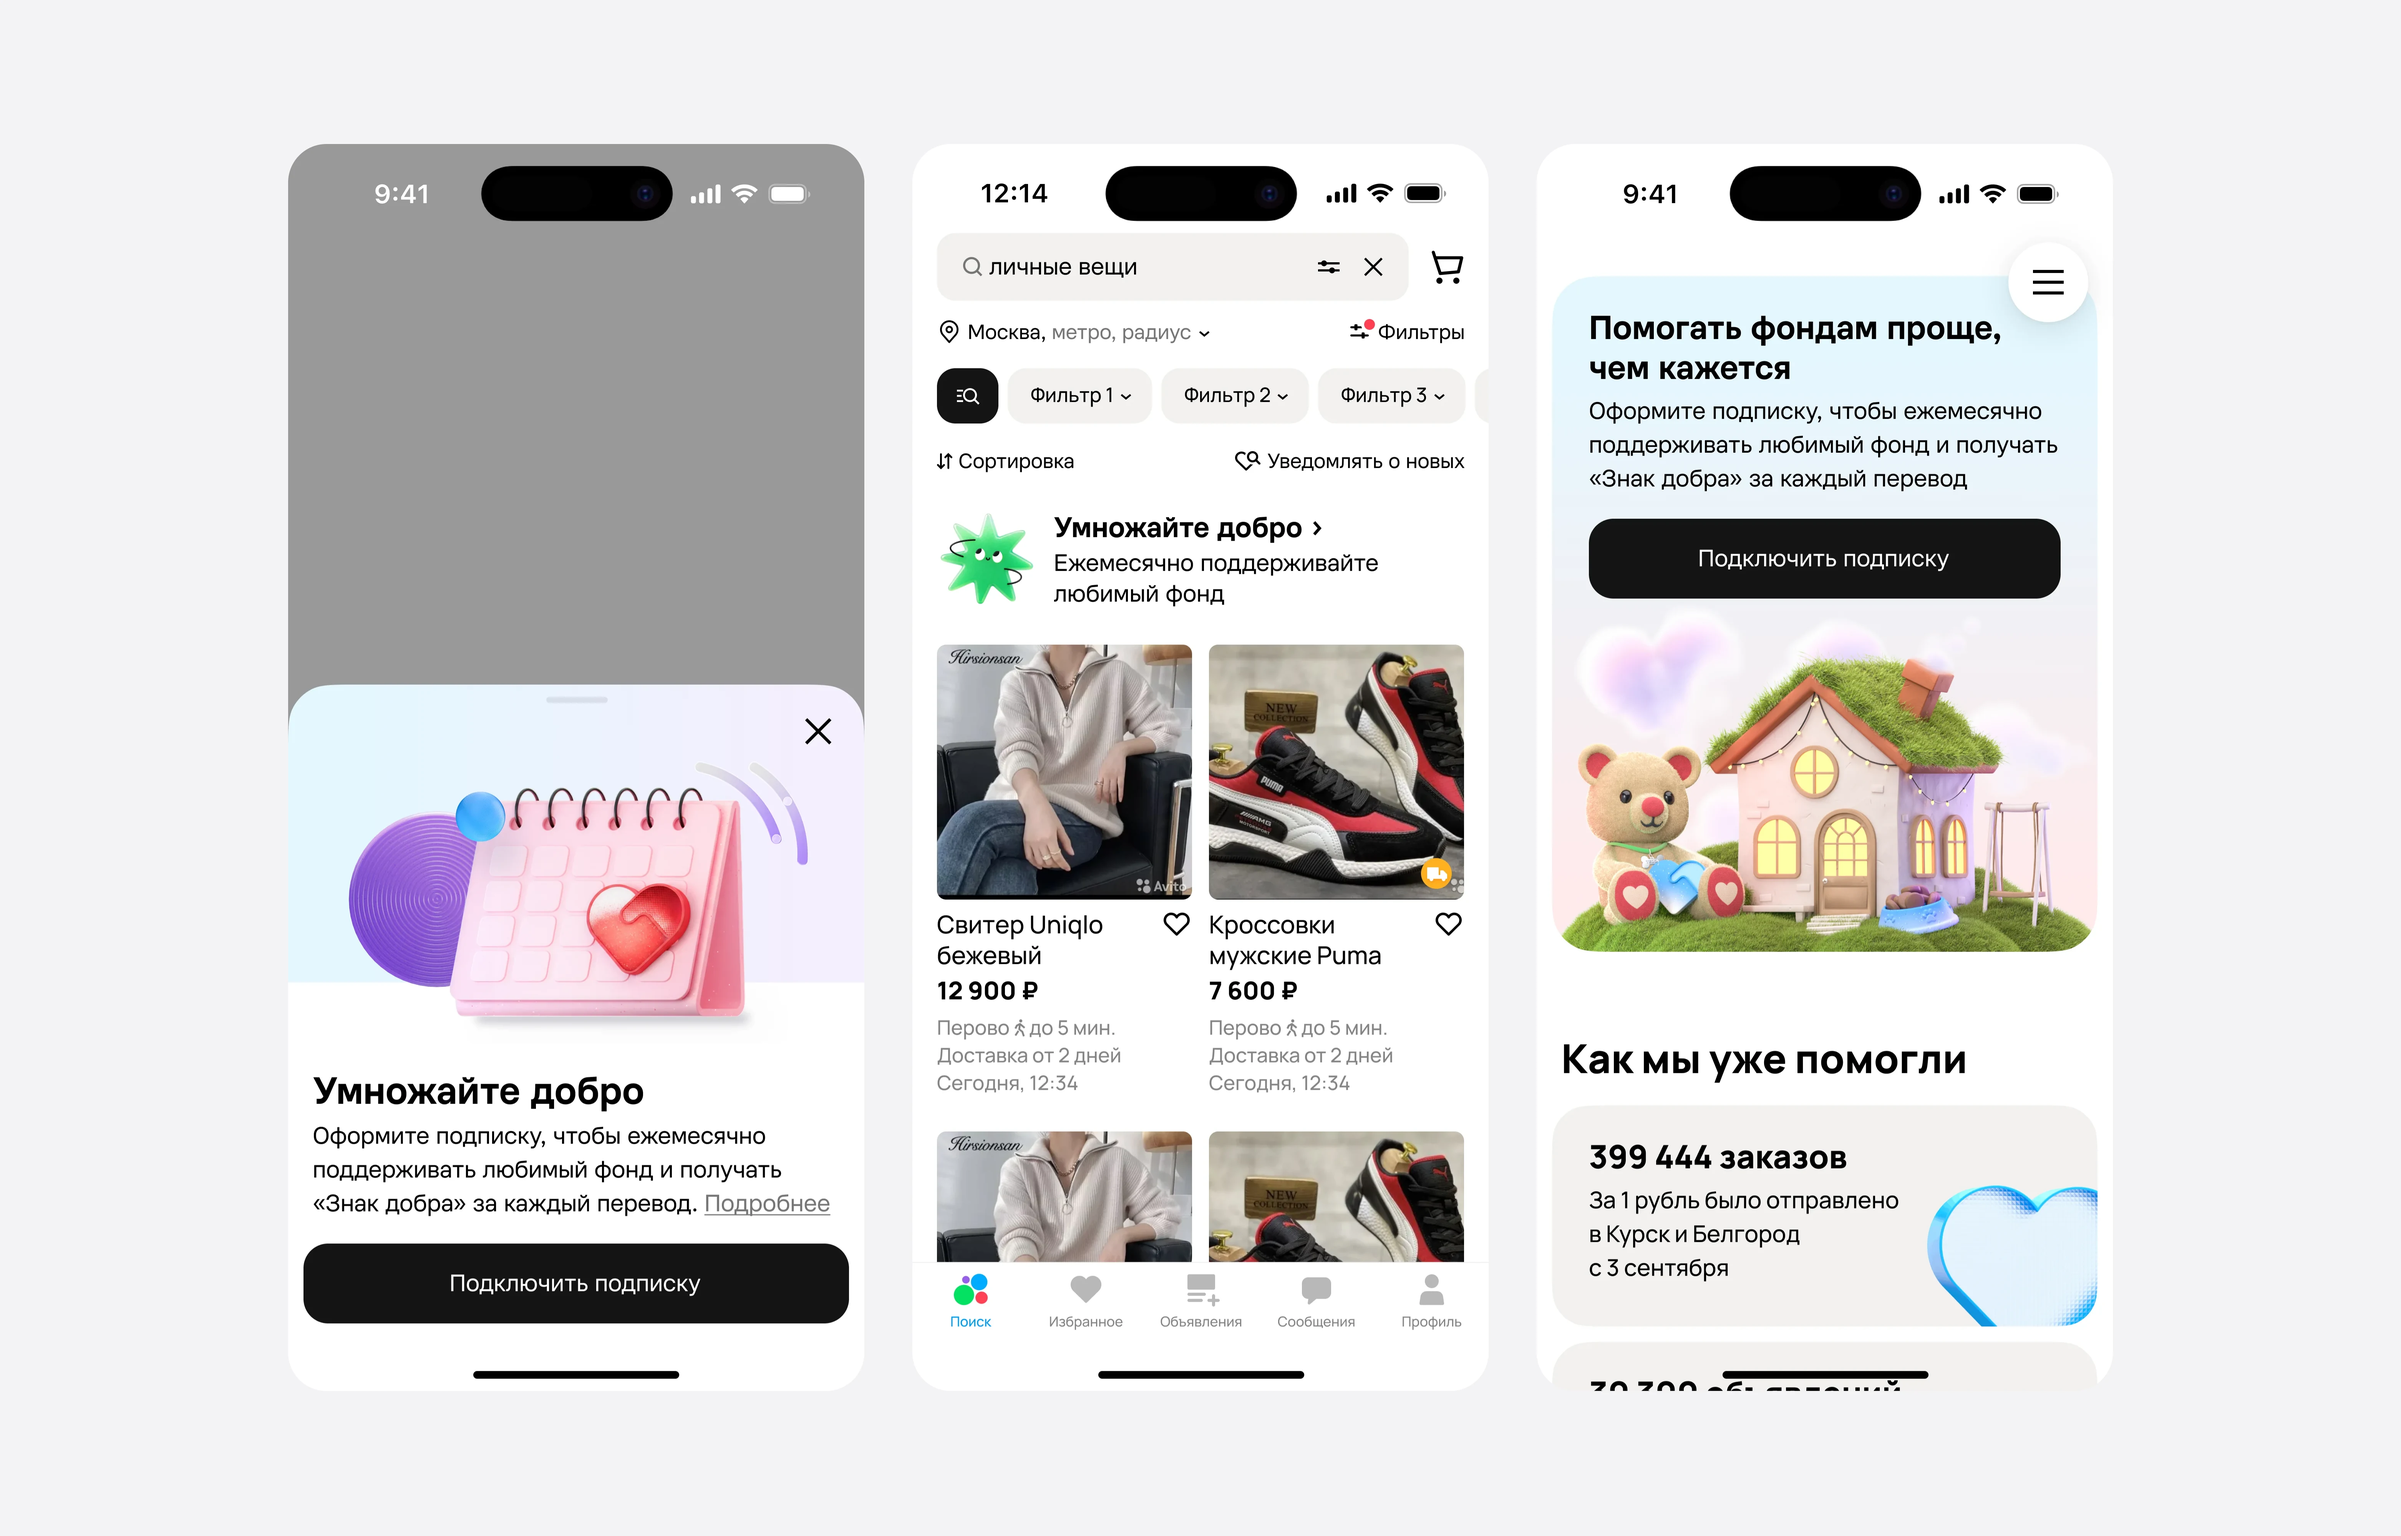
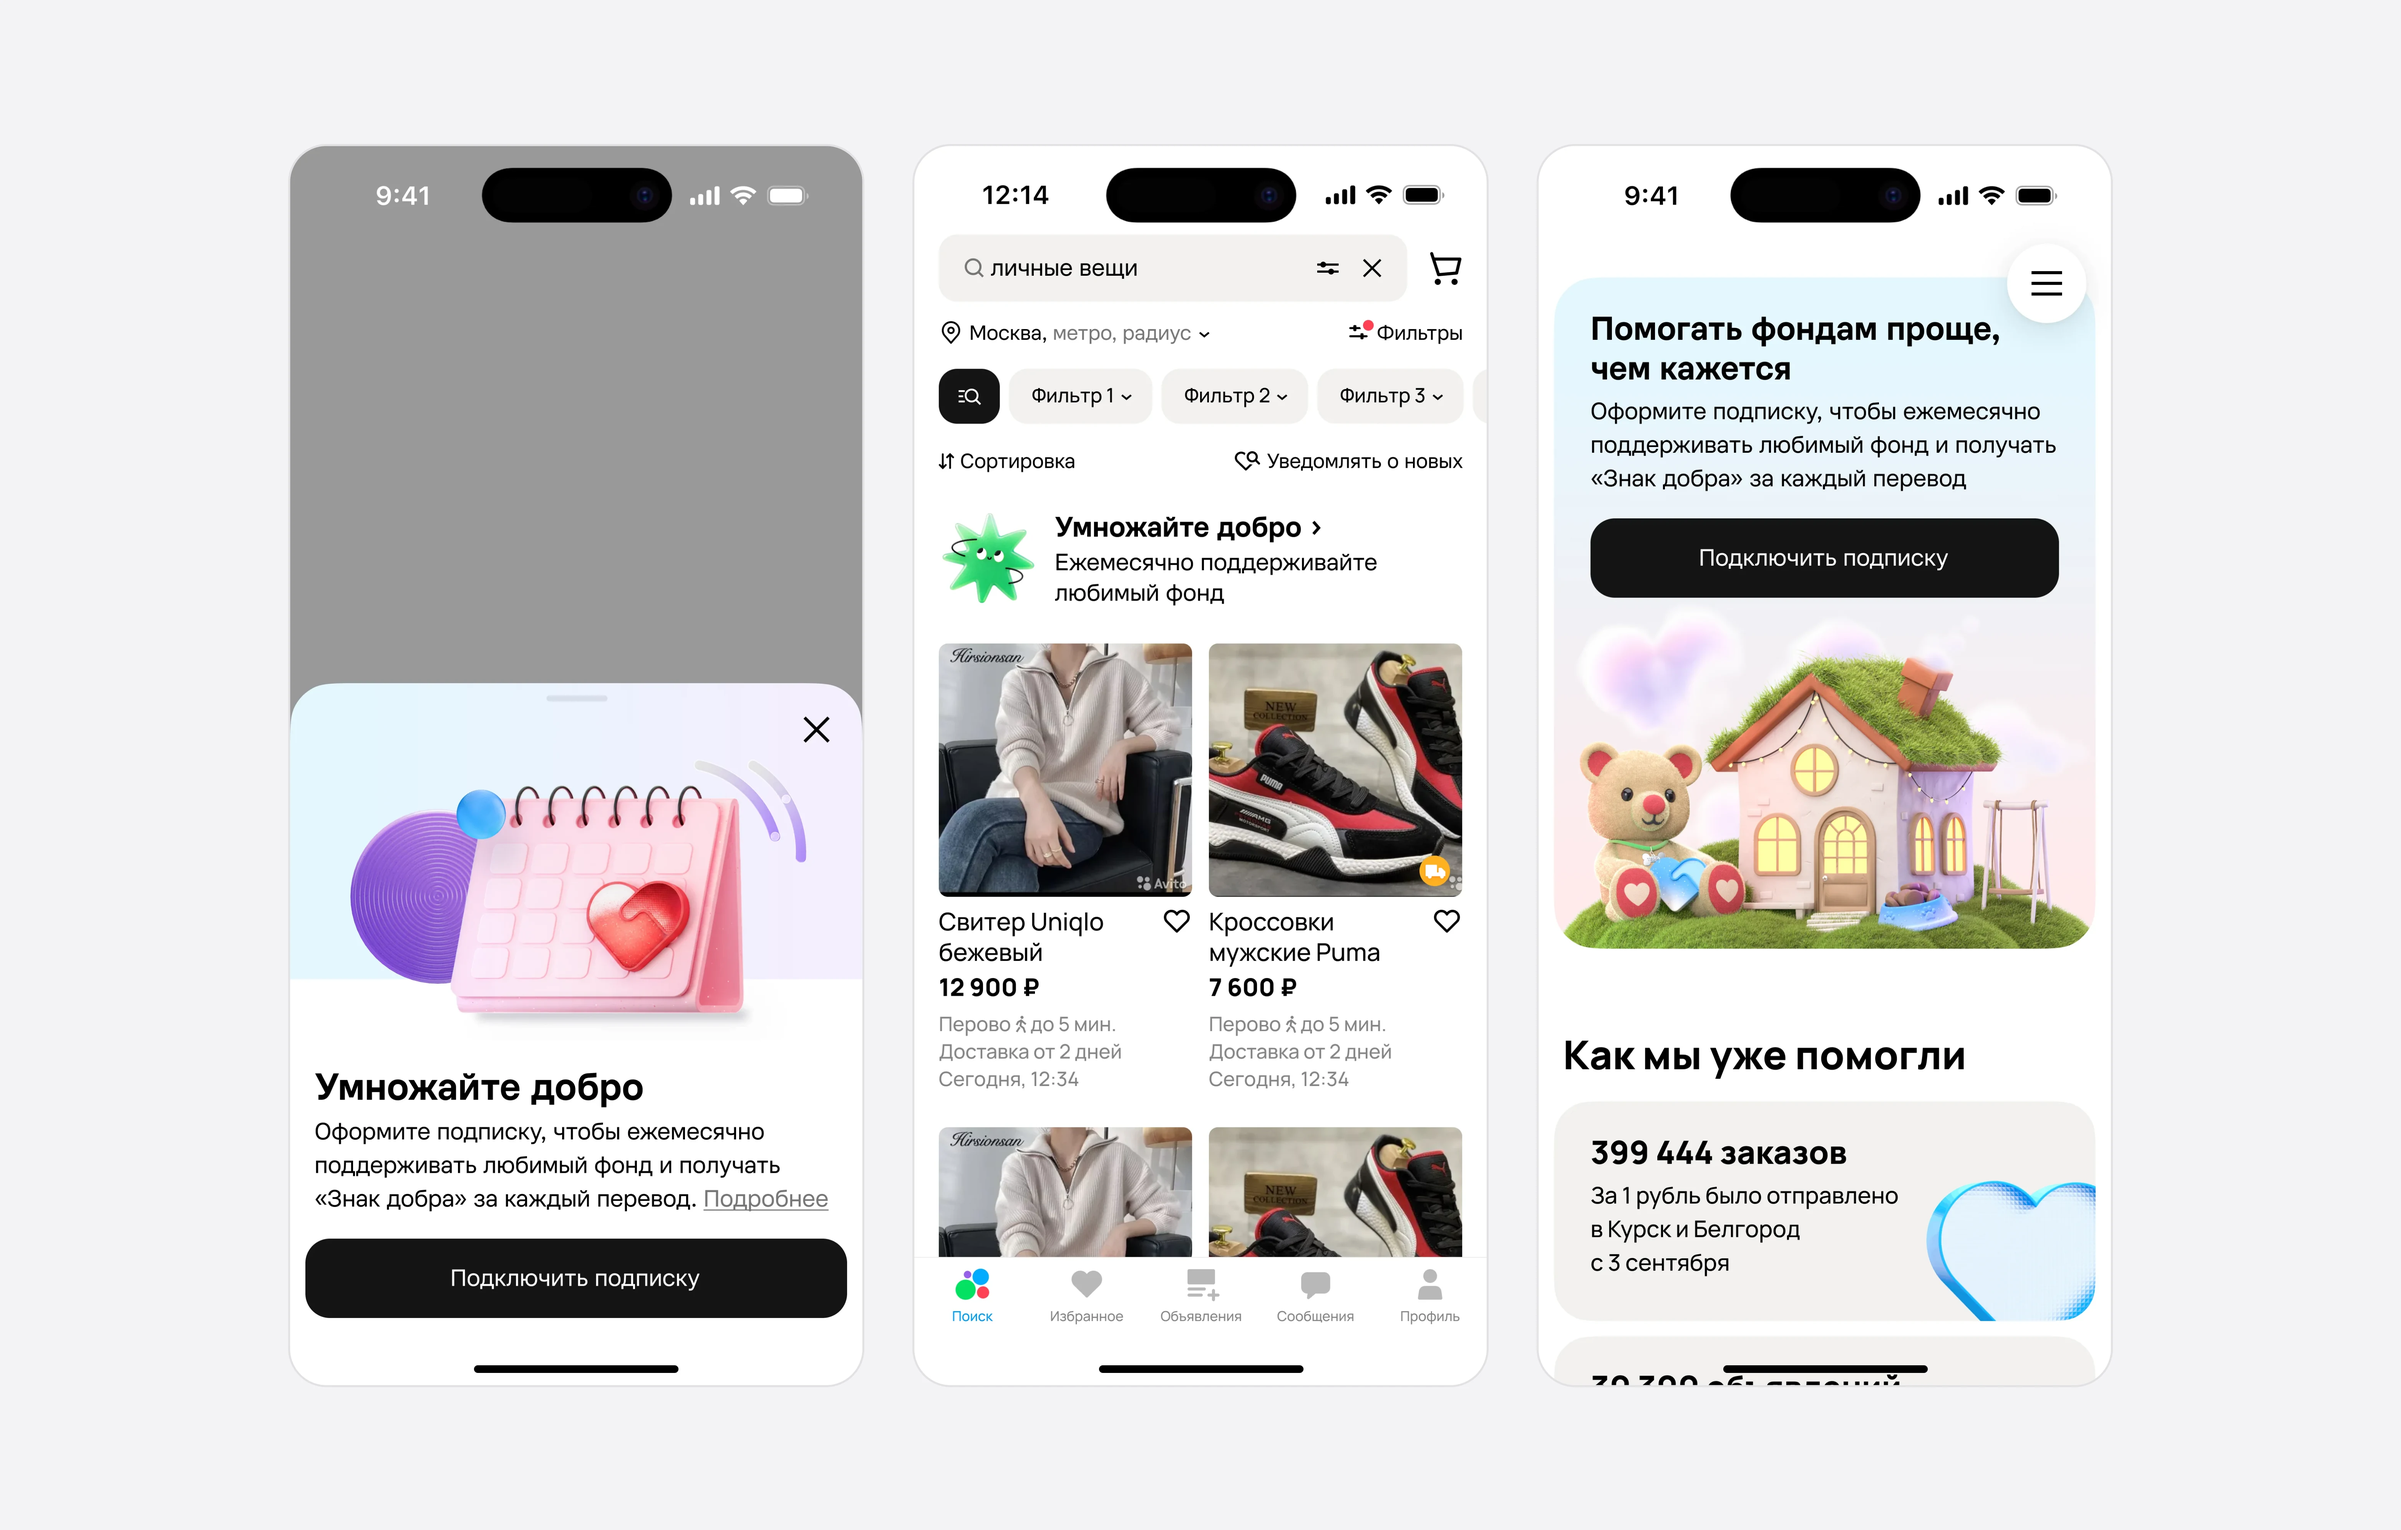
Subscription: light media border on entry-point screens

diff --git a/projects/avito-charity/subscription/index.html b/projects/avito-charity/subscription/index.html
@@ -440,7 +440,7 @@ body {
         <p class="case-role__subtitle case-subtitle text-body-lg">Я предусмотрела три точки входа в подписку: после подачи объявления, в выдаче объявлений, на чарити лендингах</p>
 
         <div class="case-entry-points__frame">
-          <img src="media/entry-points/frame.webp?v=2" alt="Три точки входа в подписку: после подачи объявления, в выдаче объявлений, на чарити лендингах" width="6250" height="4000" loading="lazy" />
+          <img src="media/entry-points/frame.webp?v=3" alt="Три точки входа в подписку: после подачи объявления, в выдаче объявлений, на чарити лендингах" width="6250" height="4000" loading="lazy" />
         </div>
 
         <p class="case-role__description case-subtitle text-body-lg">После подачи предлагаем помощь, когда основная задача уже завершена; в выдаче знакомим с подпиской через компактный баннер, сохраняя фокус на поиске; на charity-лендинге раскрываем условия подробнее для тех, кто уже интересуется благотворительностью.</p>
